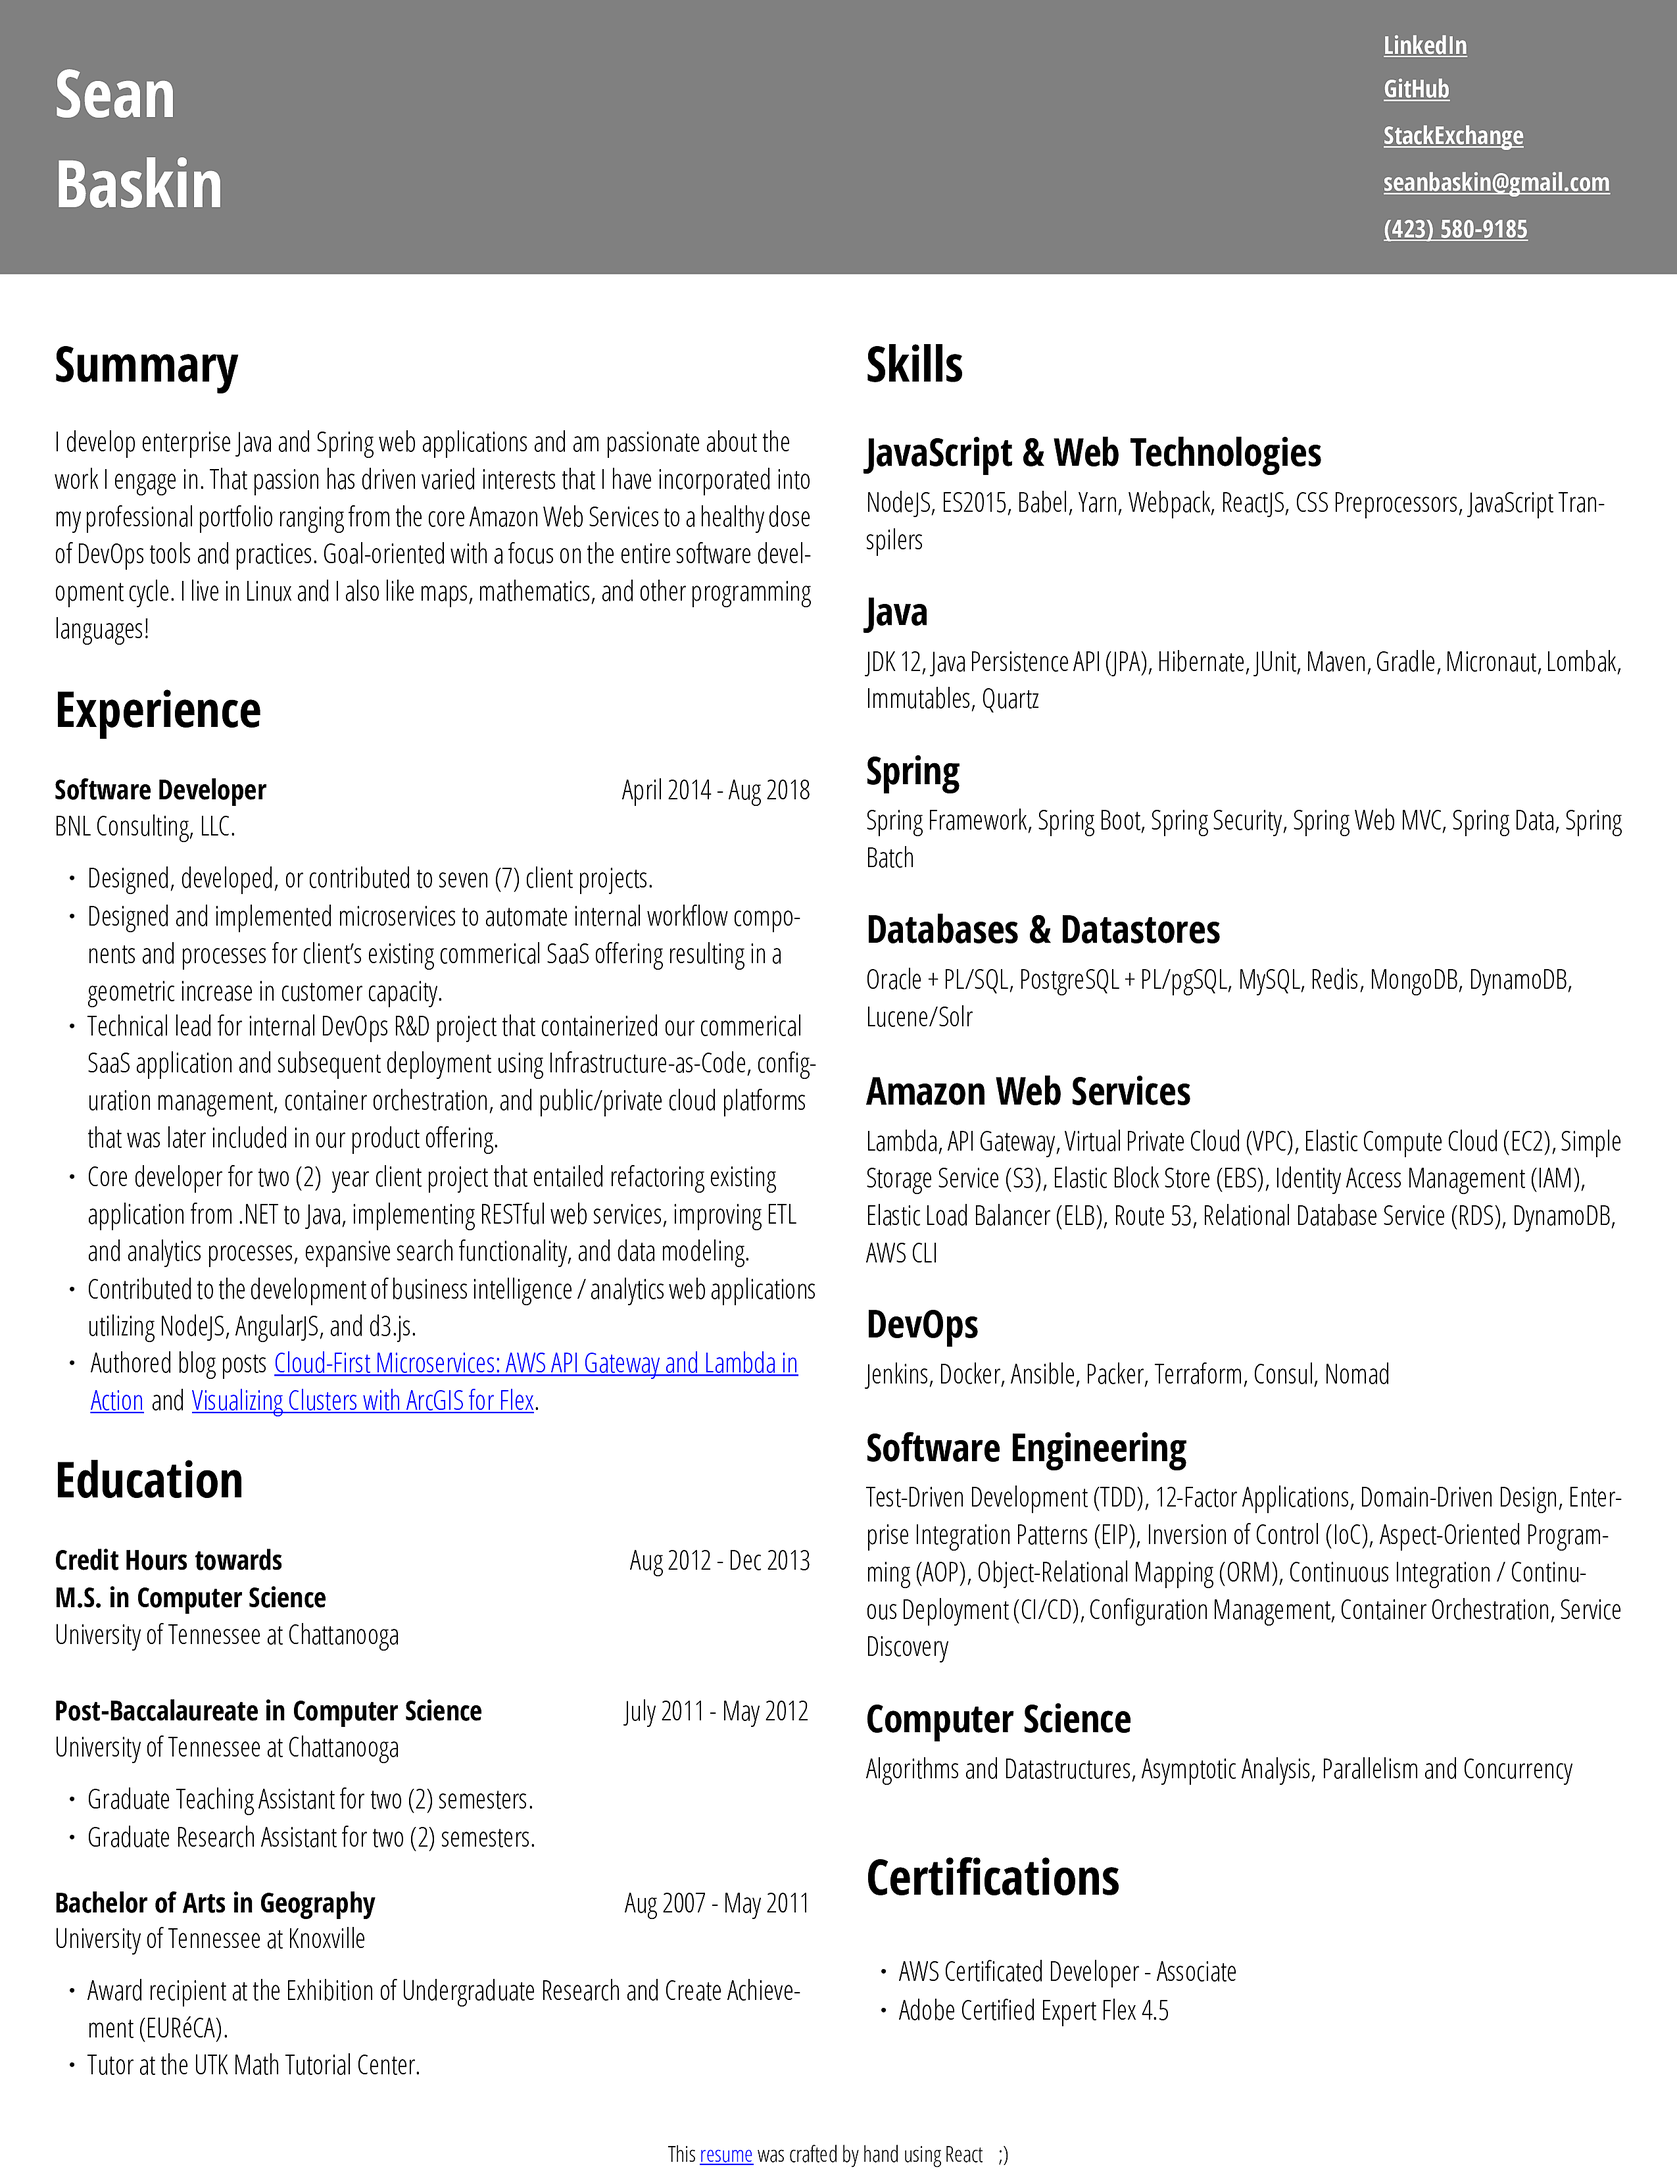
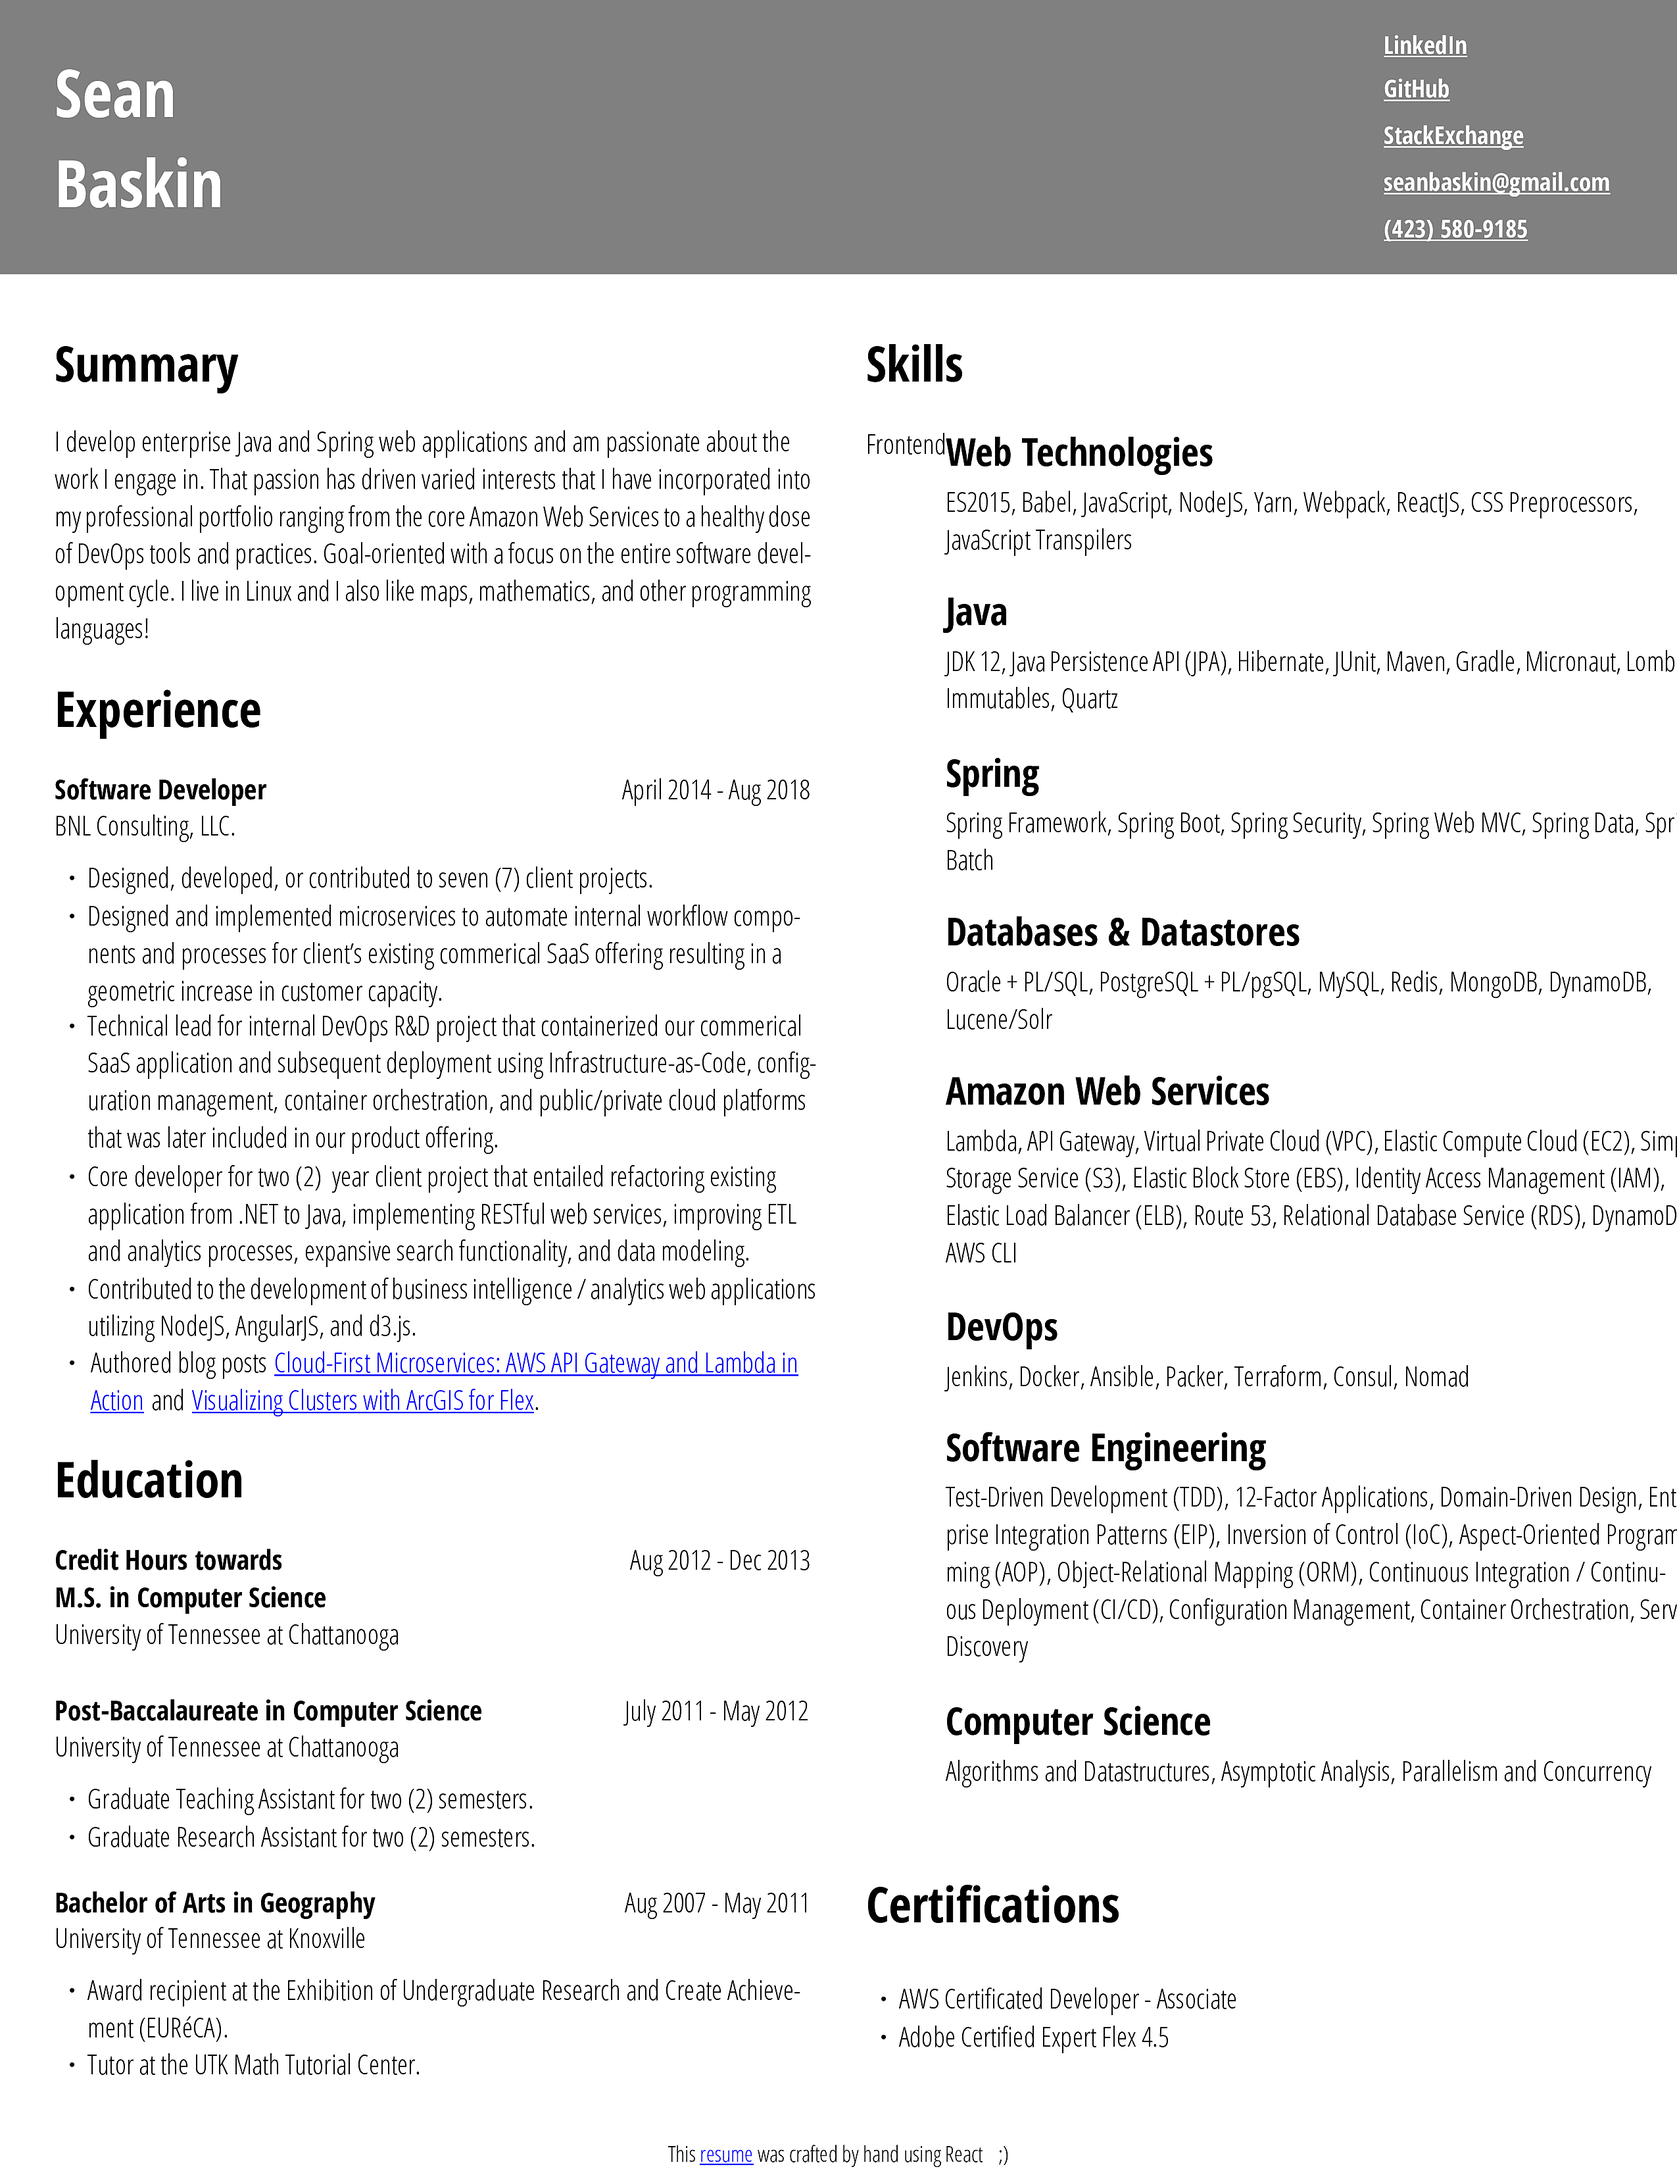
Initial test of new skills section

diff --git a/src/components/Skills.js b/src/components/Skills.js
@@ -2,10 +2,18 @@ import React from 'react';
 import { View, Text, StyleSheet } from '@react-pdf/renderer';
 
 const styles = StyleSheet.create({
-  skillsContainer: {
+  container: {
     display: 'flex',
     flexDirection: 'column',
     marginBottom: '10px'
+  },
+  comboContainer: {
+    display: 'flex',
+    flexDirection: 'row',
+  },
+  skillsContainer: {
+    display: 'flex',
+    flexDirection: 'column',
   },
   header: {
     fontSize: 18,
@@ -26,11 +34,12 @@ const styles = StyleSheet.create({
 const skills = [
   {
     id: 0,
-    skill: "JavaScript & Web Technologies",
+    skill: "Web Technologies",
     items: [
-      "NodeJS",
       "ES2015",
       "Babel",
+      "JavaScript",
+      "NodeJS",
       "Yarn",
       "Webpack",
       "ReactJS",
@@ -146,17 +155,22 @@ const SkillsEntry = ({ skill, items }) => (
 );
 
 const Skills = () => (
-  <View style={styles.skillsContainer}>
+  <View style={styles.container}>
     <Text style={styles.header}>Skills</Text>
-    {
-      skills.map(e => (
-        <SkillsEntry
-          key={e.id}
-          skill={e.skill}
-          items={e.items}
-        />
-      ))
-    }
+    <View style={styles.comboContainer}>
+      <Text>Frontend</Text>
+      <View style={styles.skillEntryContainer}>
+      {
+        skills.map(e => (
+          <SkillsEntry
+            key={e.id}
+            skill={e.skill}
+            items={e.items}
+          />
+        ))
+      }
+      </View>
+    </View>
   </View>
 );
 
